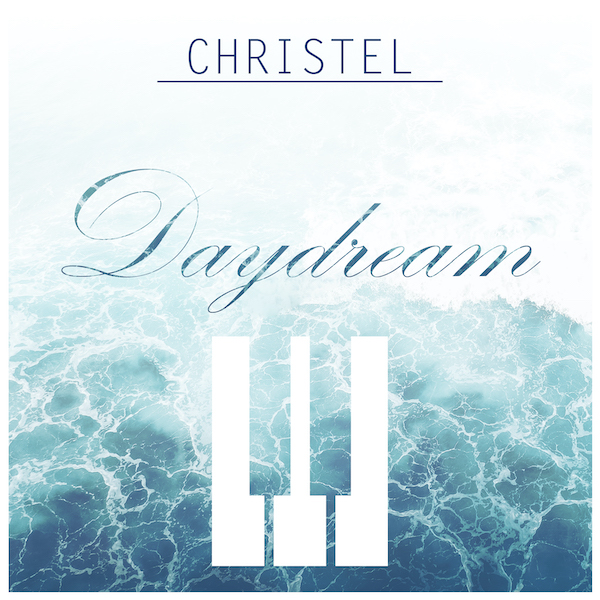
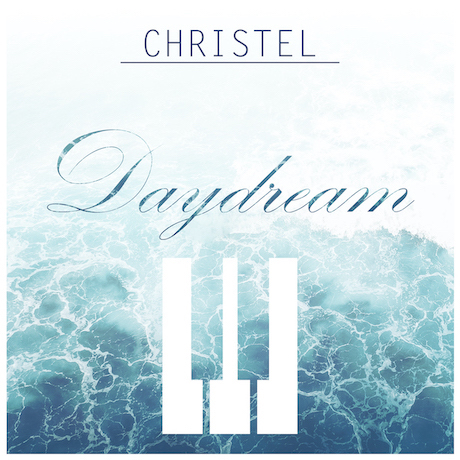
Optimize image file size

diff --git a/sites/christelmusic.nl/app/public/assets/theme.css b/sites/christelmusic.nl/app/public/assets/theme.css
@@ -18,10 +18,10 @@ body {
     border-color: black;
 }
 .btn-primary.btn-watershed {
-    background-image: url('/assets/images/btn-background-watershed.png');
+    background-image: url('/assets/images/btn-background-watershed.jpg');
 }
 .btn-primary.btn-landslide {
-    background-image: url('/assets/images/btn-background-landslide.png');
+    background-image: url('/assets/images/btn-background-landslide.jpg');
 }
 
 header {
@@ -51,7 +51,7 @@ footer {
 
 .page-background {
     z-index: -1;
-    background-image: linear-gradient(rgba(0, 0, 0, 0.6), rgba(0, 0, 0, .2)), url('/assets/images/watershed.png');
+    background-image: linear-gradient(rgba(0, 0, 0, 0.6), rgba(0, 0, 0, .2)), url('/assets/images/landslide.jpg');
     background-size: cover;
     filter: blur(50px);
     transform: scale(1.1);

diff --git a/sites/christelmusic.nl/app/src/Releases/Watershed.php b/sites/christelmusic.nl/app/src/Releases/Watershed.php
@@ -20,7 +20,7 @@ class Watershed implements ReleaseProject
 
     public function getHeaderImageUrl(): LocalUrl
     {
-        return new LocalUrl("/assets/images/header_watershed.png");
+        return new LocalUrl("/assets/images/header_watershed.jpg");
     }
 
     /**
@@ -120,7 +120,7 @@ class Watershed implements ReleaseProject
 
                 public function getImageUrl(): LocalUrl
                 {
-                    return new LocalUrl("/assets/images/watershed.png");
+                    return new LocalUrl("/assets/images/watershed.jpg");
                 }
 
                 public function getPreSaveLink(): ?string
